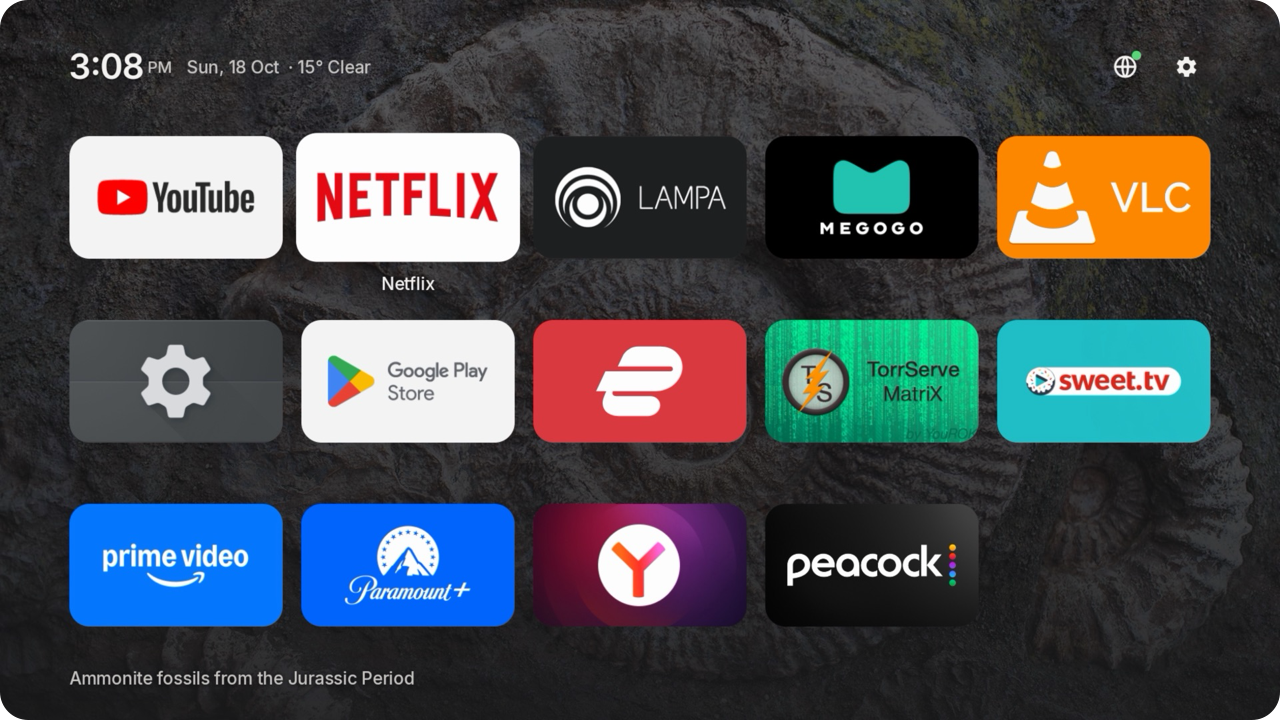
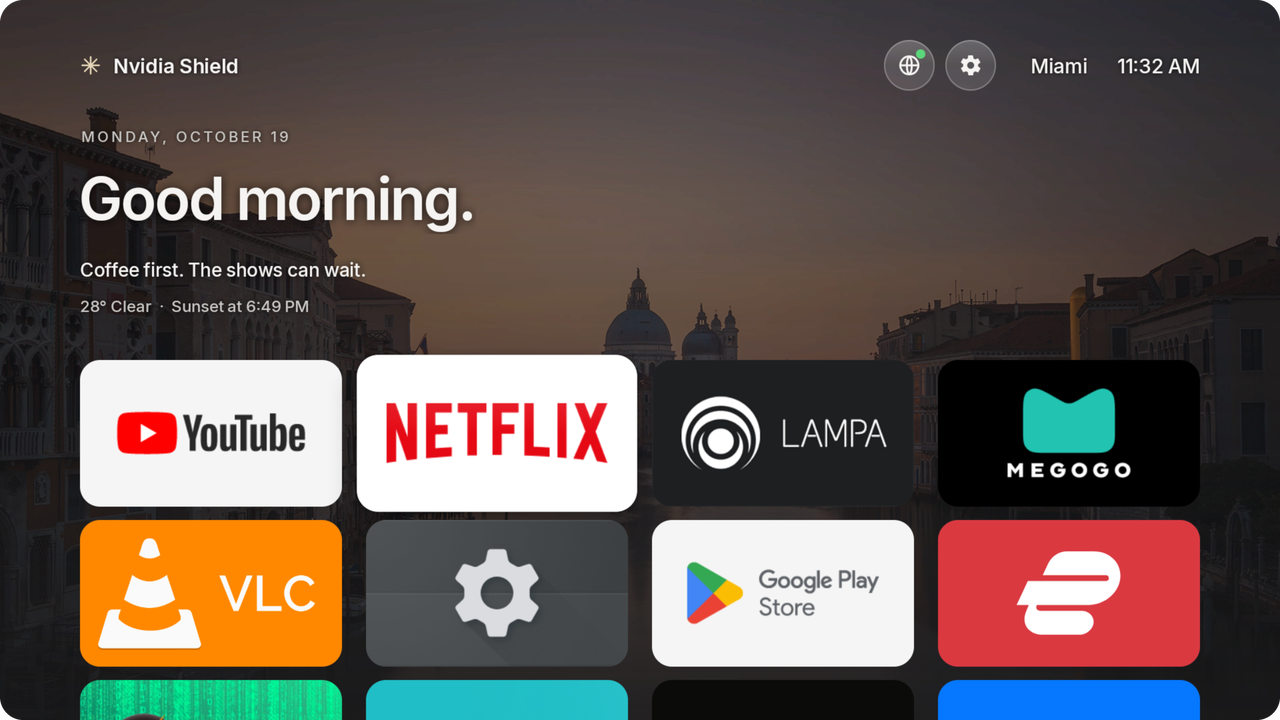
Home: greeting header and tvOS-style focus
The header now carries the TV's name, the city and the time on top, then the
date, a greeting for the time of day, the weather and the next sunrise or
sunset. It scrolls away with the grid. Apps sit in four wider columns; the
focused tile lifts with a sheen and a shadow instead of showing a label, and
the network and settings buttons are glass circles.

The city is looked up once from the saved coordinates (OpenStreetMap), never
from the IP, so a VPN does not move it.

diff --git a/app/src/main/kotlin/dev/vr/tvlaunch/MainActivity.kt b/app/src/main/kotlin/dev/vr/tvlaunch/MainActivity.kt
@@ -17,6 +17,7 @@ import android.net.ConnectivityManager
 import android.net.Network
 import android.net.NetworkCapabilities
 import android.net.NetworkRequest
+import android.text.format.DateFormat
 import android.widget.TextView
 import android.net.Uri
 import android.os.Bundle
@@ -26,6 +27,11 @@ import android.view.View
 import android.view.ViewTreeObserver
 import androidx.recyclerview.widget.GridLayoutManager
 import androidx.recyclerview.widget.RecyclerView
+import java.time.LocalDateTime
+import java.time.LocalTime
+import java.time.ZoneId
+import java.time.ZonedDateTime
+import java.util.Date
 import java.util.concurrent.Executors
 import java.util.concurrent.TimeUnit
 import kotlin.math.roundToInt
@@ -41,7 +47,7 @@ class MainActivity : Activity() {
 
     private companion object {
         const val TEST_MS = 4000L
-        const val SPAN = 5
+        const val SPAN = 4
         const val IDLE_MS = 12_000L
         val WEATHER_MS = TimeUnit.HOURS.toMillis(1)
     }
@@ -58,6 +64,7 @@ class MainActivity : Activity() {
         set(v) = prefs.edit().putString("order", v.joinToString("\n")).apply()
 
     private lateinit var popover: View
+    private lateinit var netBtn: View
     private lateinit var popNet: TextView
     private lateinit var popVpn: TextView
     private lateinit var popRate: TextView
@@ -143,6 +150,7 @@ class MainActivity : Activity() {
     private fun fetch(url: String): String? = try {
         (java.net.URL(url).openConnection() as java.net.HttpURLConnection).run {
             connectTimeout = 5000; readTimeout = 5000
+            setRequestProperty("User-Agent", "LilLauncher (Android TV)")  // OpenStreetMap refuses requests without one
             try { inputStream.use { it.readBytes().toString(Charsets.UTF_8) } } finally { disconnect() }
         }
     } catch (_: Exception) { null }
@@ -192,8 +200,9 @@ class MainActivity : Activity() {
         refresh()
     }
 
-    // Weather: current conditions beside the date, refreshed at most hourly.
+    // Weather and the sun: current conditions and the next sunrise or sunset under the greeting, refreshed at most hourly.
     private lateinit var weather: TextView
+    private lateinit var city: TextView
 
     /**
      * Android 14 regional preferences put the temperature unit on the locale as the "mu" extension. Older systems
@@ -203,19 +212,83 @@ class MainActivity : Activity() {
 
     private fun updateWeather() {
         val f = fahrenheit()
-        val key = if (f) "wx_f" else "wx_c"  // one cache per unit, so changing the setting refetches
-        weather.text = prefs.getString(key, "")
+        val key = if (f) "sky_f" else "sky_c"  // one cache per unit, so changing the setting refetches
+        showWeather(key)
         val now = System.currentTimeMillis()
-        if (now - prefs.getLong("${key}_at", 0) < WEATHER_MS) return
+        val fresh = now - prefs.getLong("${key}_at", 0) < WEATHER_MS
+        if (fresh && prefs.contains("city")) return
         io.execute {
             val (lat, lon) = locate() ?: return@execute
-            val cur = fetch("https://api.open-meteo.com/v1/forecast?latitude=$lat&longitude=$lon&current=temperature_2m,weather_code" + if (f) "&temperature_unit=fahrenheit" else "")
-                ?.let { json(it)?.optJSONObject("current") } ?: return@execute
+            city.post { showCity() }
+            if (fresh) return@execute  // only the city was missing
+            val res = fetch("https://api.open-meteo.com/v1/forecast?latitude=$lat&longitude=$lon&current=temperature_2m,weather_code" +
+                "&daily=sunrise,sunset&forecast_days=2&timezone=auto" + if (f) "&temperature_unit=fahrenheit" else "")?.let { json(it) } ?: return@execute
+            val cur = res.optJSONObject("current") ?: return@execute
             val temp = cur.optDouble("temperature_2m").takeIf { !it.isNaN() } ?: return@execute
             val text = getString(R.string.weather, temp.roundToInt(), getString(sky(cur.optInt("weather_code"))))
-            prefs.edit().putString(key, text).putLong("${key}_at", now).apply()
-            weather.post { weather.text = text }
+            // The place's time zone, then sunrise and sunset for today and tomorrow in its local time ("2026-10-19T07:22").
+            val d = res.optJSONObject("daily")
+            val sun = listOf(res.optString("timezone")) + (0..1).flatMap { i -> listOf(d?.optJSONArray("sunrise")?.optString(i), d?.optJSONArray("sunset")?.optString(i)) }
+            val sunText = sun.takeIf { l -> l.all { !it.isNullOrEmpty() } }?.joinToString(" ")
+            prefs.edit().putString(key, text).putString("${key}_sun", sunText).putLong("${key}_at", now).apply()
+            weather.post { showWeather(key) }
         }
+    }
+
+    private fun showWeather(key: String) {
+        weather.text = listOfNotNull(prefs.getString(key, null), sunText(prefs.getString("${key}_sun", null))).joinToString("  ·  ")
+    }
+
+    /**
+     * The next sunrise or sunset from two cached days, read in the place's own time zone; the clock shown is the
+     * device's. Null when both days have passed.
+     */
+    private fun sunText(sun: String?): String? {
+        val parts = sun?.split(' ')?.takeIf { it.size == 5 } ?: return null
+        val zone = try { ZoneId.of(parts[0]) } catch (_: Exception) { return null }
+        val times = parts.drop(1).map { try { LocalDateTime.parse(it).atZone(zone) } catch (_: Exception) { return null } }
+        val now = ZonedDateTime.now(zone)
+        val i = times.indexOfFirst { it.isAfter(now) }.takeIf { it >= 0 } ?: return null
+        val res = when { i % 2 == 1 -> R.string.sunset; times[i].toLocalDate() == now.toLocalDate() -> R.string.sunrise; else -> R.string.sunrise_tomorrow }
+        if (i == 3 && times[i].toLocalDate() != now.toLocalDate()) return null  // a sunset tomorrow means the cache is a day old
+        return getString(res, DateFormat.getTimeFormat(this).format(Date.from(times[i].toInstant())))
+    }
+
+    /**
+     * The name set in the TV's settings ("Living room"), which can change while Home is away. The factory default is
+     * the bare model word ("SHIELD"), so that one gets the maker in front: "Nvidia Shield".
+     */
+    private fun deviceName(): String {
+        val name = Settings.Global.getString(contentResolver, Settings.Global.DEVICE_NAME)?.trim().orEmpty()
+        val model = android.os.Build.MODEL.substringBefore(' ')
+        if (name.isNotEmpty() && !name.equals(model, ignoreCase = true)) return name
+        fun word(w: String) = w.lowercase().replaceFirstChar { it.titlecase() }
+        return "${word(android.os.Build.MANUFACTURER)} ${word(model)}"
+    }
+
+    /** Blank until the city is known: the time zone's city is often hundreds of miles off. */
+    private fun showCity() {
+        val name = prefs.getString("city", null)
+        city.text = name
+        city.visibility = if (name.isNullOrBlank()) View.GONE else View.VISIBLE
+    }
+
+    // Greeting: follows the clock, checked on every minute tick.
+    private lateinit var greeting: TextView
+    private lateinit var subtitle: TextView
+    private val tick = object : BroadcastReceiver() {
+        override fun onReceive(c: Context, i: Intent) { updateGreeting() }
+    }
+
+    private fun updateGreeting() {
+        val (g, sub) = when (LocalTime.now().hour) {
+            in 5..11 -> R.string.greet_morning to R.string.sub_morning
+            in 12..16 -> R.string.greet_afternoon to R.string.sub_afternoon
+            in 17..21 -> R.string.greet_evening to R.string.sub_evening
+            else -> R.string.greet_night to R.string.sub_night
+        }
+        greeting.setText(g); subtitle.setText(sub)
+        showWeather(if (fahrenheit()) "sky_f" else "sky_c")  // the sun line moves on with the clock
     }
 
     /**
@@ -228,7 +301,14 @@ class MainActivity : Activity() {
         if (!vpn && !prefs.contains("loc")) fetch("https://ipwho.is/?fields=success,latitude,longitude")?.let { json(it) }
             ?.takeIf { it.optBoolean("success") && it.has("latitude") && it.has("longitude") }
             ?.let { prefs.edit().putString("loc", "${it.optDouble("latitude")},${it.optDouble("longitude")}").apply() }
-        prefs.getString("loc", null)?.split(',')?.let { return it[0] to it[1] }
+        prefs.getString("loc", null)?.split(',')?.let { (lat, lon) ->
+            // The city name comes from the remembered coordinates, never from the IP, so a VPN cannot move it.
+            if (!prefs.contains("city")) fetch("https://nominatim.openstreetmap.org/reverse?format=json&zoom=10&lat=$lat&lon=$lon" +
+                    "&accept-language=" + java.util.Locale.getDefault().toLanguageTag())
+                ?.let { json(it)?.optString("name") }?.takeIf { it.isNotBlank() }
+                ?.let { prefs.edit().putString("city", it).apply() }
+            return lat to lon
+        }
         val city = java.util.TimeZone.getDefault().id.substringAfterLast('/').replace('_', ' ')
         return fetch("https://geocoding-api.open-meteo.com/v1/search?count=1&name=" + java.net.URLEncoder.encode(city, "UTF-8"))
             ?.let { json(it)?.optJSONArray("results")?.optJSONObject(0) }
@@ -308,6 +388,10 @@ class MainActivity : Activity() {
         grid.setHasFixedSize(true)
         caption = findViewById(R.id.caption)
         weather = findViewById(R.id.weather)
+        city = findViewById(R.id.city)
+        greeting = findViewById(R.id.greeting)
+        subtitle = findViewById(R.id.subtitle)
+        netBtn = findViewById(R.id.netBtn)
         photos = Photos(findViewById(R.id.photo), onShow = { caption.text = it })
         findViewById<View>(R.id.settingsBtn).apply {
             setOnClickListener { startActivity(Intent(Settings.ACTION_SETTINGS)) }
@@ -317,19 +401,27 @@ class MainActivity : Activity() {
         inputBtn = findViewById<View>(R.id.inputBtn).apply { setOnClickListener { inputMenu() } }
         popover = findViewById(R.id.popover); popNet = findViewById(R.id.popNet); popVpn = findViewById(R.id.popVpn); popRate = findViewById(R.id.popRate)
         vpnDot = findViewById(R.id.vpnDot)
-        findViewById<View>(R.id.netBtn).apply {
+        // Centered under the globe and inside the right overscan line, again whenever the speed text changes its width.
+        popover.addOnLayoutChangeListener { v, _, _, _, _, _, _, _, _ ->
+            val at = IntArray(2).also { netBtn.getLocationInWindow(it) }
+            val max = (v.parent as View).width - resources.getDimension(R.dimen.overscan_h) - v.width
+            v.x = (at[0] + netBtn.width / 2f - v.width / 2f).coerceAtMost(max)
+        }
+        netBtn.apply {
             setOnFocusChangeListener { _, f -> if (f) showPopover() else hidePopover() }
             setOnClickListener { open(Intent(Settings.ACTION_WIFI_SETTINGS)) }
         }
+        // The header rides on top of the grid's first rows and scrolls away with them, fading as it goes.
         val header = findViewById<View>(R.id.header)
-        val shift = -resources.getDimension(R.dimen.header_shift)
+        header.addOnLayoutChangeListener { v, _, _, _, bottom, _, _, _, _ ->
+            val top = bottom - v.paddingBottom + (resources.displayMetrics.density * 32).roundToInt()
+            if (grid.paddingTop != top) grid.post { grid.setPadding(grid.paddingLeft, top, grid.paddingRight, grid.paddingBottom) }
+        }
         grid.addOnScrollListener(object : RecyclerView.OnScrollListener() {
-            var shifted = false
             override fun onScrolled(rv: RecyclerView, dx: Int, dy: Int) {
-                val hide = rv.computeVerticalScrollOffset() > header.height / 2
-                if (hide == shifted) return
-                shifted = hide
-                header.animate().alpha(if (hide) 0f else 1f).translationY(if (hide) shift else 0f).setDuration(220).withLayer().start()
+                val off = rv.computeVerticalScrollOffset().toFloat()
+                header.translationY = -off
+                header.alpha = (1f - off / (header.height * 0.3f)).coerceIn(0f, 1f)
             }
         })
     }
@@ -345,6 +437,10 @@ class MainActivity : Activity() {
             registerNetworkCallback(vpnRequest, vpnWatch)
             registerDefaultNetworkCallback(netWatch)
         }
+        registerReceiver(tick, IntentFilter(Intent.ACTION_TIME_TICK))
+        updateGreeting()
+        showCity()
+        findViewById<TextView>(R.id.deviceName).text = deviceName()
         updateInputs()
         updateWeather()
         poke()
@@ -357,6 +453,7 @@ class MainActivity : Activity() {
         caption.removeCallbacks(idle)
         photos.stop()
         unregisterReceiver(packageChanges)
+        unregisterReceiver(tick)
         getSystemService(ConnectivityManager::class.java).apply { unregisterNetworkCallback(vpnWatch); unregisterNetworkCallback(netWatch) }
         vpnWatch.reset()
     }
@@ -459,13 +556,19 @@ class MainActivity : Activity() {
             }.show()
     }
 
-    /** Up from the first row goes to the globe; the default focus search would pick the gear. */
+    /**
+     * Up from the first row goes to the globe; the default focus search would pick the gear. Reaching the first row
+     * scrolls all the way back so the header is whole again.
+     */
     override fun dispatchKeyEvent(e: KeyEvent): Boolean {
         if (e.action == KeyEvent.ACTION_DOWN) poke()
         if (moving >= 0 || (e.keyCode == swallowUp && e.action == KeyEvent.ACTION_UP)) return moveKey(e)
         if (e.action == KeyEvent.ACTION_DOWN && e.keyCode == KeyEvent.KEYCODE_DPAD_UP) {
             val pos = focusedPos() ?: return super.dispatchKeyEvent(e)
-            if (pos < SPAN) { findViewById<View>(R.id.netBtn).requestFocus(); return true }
+            if (pos < SPAN) { netBtn.requestFocus(); return true }
+            val handled = super.dispatchKeyEvent(e)
+            if ((focusedPos() ?: SPAN) < SPAN) grid.smoothScrollBy(0, -grid.computeVerticalScrollOffset())
+            return handled
         }
         return super.dispatchKeyEvent(e)
     }

diff --git a/app/src/main/kotlin/dev/vr/tvlaunch/AppAdapter.kt b/app/src/main/kotlin/dev/vr/tvlaunch/AppAdapter.kt
@@ -6,7 +6,6 @@ import android.view.View
 import android.view.ViewGroup
 import android.view.animation.PathInterpolator
 import android.widget.ImageView
-import android.widget.TextView
 import androidx.recyclerview.widget.RecyclerView
 
 data class AppEntry(val pkg: String, val label: String, val banner: Drawable?, val icon: Drawable)
@@ -31,8 +30,9 @@ class AppAdapter(
         h.tile.setOnFocusChangeListener { t, f ->
             if (!f) t.rotation = 0f
             val sc = if (f) FOCUS_SCALE else 1f
-            t.animate().scaleX(sc).scaleY(sc).setDuration(260).setInterpolator(ease).withLayer().start()
-            h.label.animate().alpha(if (f) 1f else 0f).setDuration(if (f) 160 else 100).start()
+            // tvOS-style lift: the shadow grows with the scale, and the raised tile draws over its neighbours.
+            val z = if (f) t.resources.getDimension(R.dimen.tile_lift) else 0f
+            t.animate().scaleX(sc).scaleY(sc).translationZ(z).setDuration(260).setInterpolator(ease).start()
         }
         // NO_POSITION between a data change and the next layout pass.
         h.tile.setOnClickListener { items.getOrNull(h.bindingAdapterPosition)?.let(onClick) }
@@ -44,15 +44,13 @@ class AppAdapter(
         val e = items[pos]
         h.tile.setImageDrawable(e.banner ?: e.icon)
         h.tile.scaleType = if (e.banner != null) ImageView.ScaleType.CENTER_CROP else ImageView.ScaleType.CENTER_INSIDE
-        h.label.text = e.label
-        h.label.alpha = if (h.tile.isFocused) 1f else 0f
-        if (!h.tile.isFocused) { h.tile.rotation = 0f; h.tile.scaleX = 1f; h.tile.scaleY = 1f }
+        h.tile.contentDescription = e.label
+        if (!h.tile.isFocused) { h.tile.rotation = 0f; h.tile.scaleX = 1f; h.tile.scaleY = 1f; h.tile.translationZ = 0f }
     }
 
-    companion object { const val FOCUS_SCALE = 1.05f }
+    companion object { const val FOCUS_SCALE = 1.07f }
 
     class VH(v: View) : RecyclerView.ViewHolder(v) {
         val tile: ImageView = v.findViewById(R.id.tile)
-        val label: TextView = v.findViewById(R.id.label)
     }
 }

diff --git a/README.md b/README.md
@@ -14,7 +14,8 @@ I built it for my NVIDIA Shield because I wanted the TV to feel like an Apple TV
 
 - The backdrop is Bing's photo of the day. Each one is toned down so the tiles stay readable, and it changes on the hour.
 - Apps are sorted by how long you actually use them (foreground time over the last 30 days). Hold Select on a tile to move it or hide it.
-- The header shows the time, the date and the weather from Open-Meteo, and slides away when you scroll.
+- The header greets you for the time of day and shows the TV's name, your city, the time, the date, the weather and the next sunrise or sunset from Open-Meteo. It scrolls away with the apps. The city comes from your saved location, so a VPN doesn't move it.
+- The focused tile lifts with a glassy sheen and a soft shadow, the way tvOS does it.
 - Focus the globe to see your connection, which country your VPN exits in, and a quick speed test that tells you whether 4K will hold up.
 - The screensaver shows the same photos full screen, drifting slowly, with the time and the place name.
 - On TV sets with HDMI ports, an Inputs button lists them, along with whatever is plugged in. Boxes like the Shield never see it.
